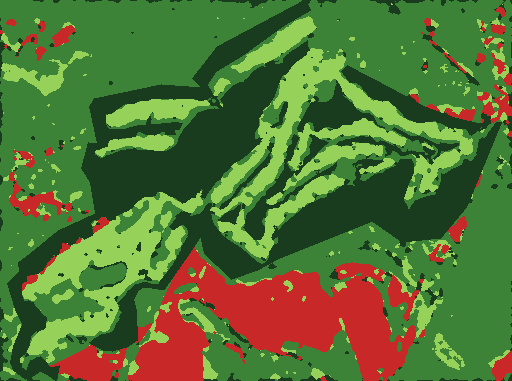
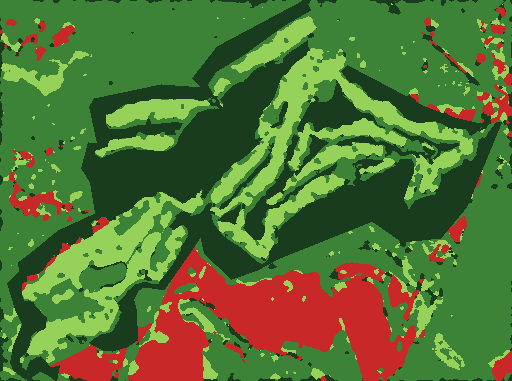
Union OSM bunkers into surface mask as rough
Bunkers outside the playing-corridor envelope were classified OB by
the aerial mask (non-turf + outside envelope -> OB), so sand rendered
under the red OOB overlay. surfaceAt() already plays them as sand
(bunker poly checked first), so this was a visual-only mismatch.

Paint OSM bunker polygons as ROUGH in build_surface_mask after the
woods union, mirroring how woods are unioned as a strong prior.
Re-baked butter-brook-golf-club mask: 76/76 bunkers now ROUGH/FW.

diff --git a/tools/fetch_course.py b/tools/fetch_course.py
@@ -264,7 +264,7 @@ def _classify_px(r, g, b, edge, fw_cut, inside):
 
 
 def build_surface_mask(img_path, aerial, world, woods_world, corridors, out_path,
-                       boundary=None):
+                       boundary=None, bunker_world=None):
     """Classify the baked aerial into a coarse fairway/rough/woods/OOB raster.
     Returns {file,w,h,toWorld:[...]} (mask px -> world affine) or None to skip.
 
@@ -348,6 +348,18 @@ def build_surface_mask(img_path, aerial, world, woods_world, corridors, out_path
                         id_ * p["x"] + ie * p["y"] + if_) for p in poly]
                 if len(pts) >= 3:
                     draw.polygon(pts, fill=MASK_WOODS)
+
+        # union the OSM bunkers in as ROUGH so sand never classifies OB (the
+        # game samples the real bunker polygon first; this only stops the mask
+        # painting a fairway/greenside bunker red just because it's not turf).
+        if bunker_world and w2p is not None:
+            ia, ib, ic, id_, ie, if_ = w2p
+            draw = ImageDraw.Draw(lab)
+            for poly in bunker_world:
+                pts = [(ia * p["x"] + ib * p["y"] + ic,
+                        id_ * p["x"] + ie * p["y"] + if_) for p in poly]
+                if len(pts) >= 3:
+                    draw.polygon(pts, fill=MASK_ROUGH)
 
         lab.putpalette(MASK_PALETTE)
         lab.save(out_path)

diff --git a/tools/fetch_course_global.py b/tools/fetch_course_global.py
@@ -499,7 +499,8 @@ def main():
                 mask = fc.build_surface_mask(os.path.join(out_dir, rel), aerial, world,
                                              surfaces["woods"], corridors,
                                              os.path.join(out_dir, mrel),
-                                             boundary=boundary_world)
+                                             boundary=boundary_world,
+                                             bunker_world=surfaces["bunker"])
                 if mask:
                     mask["file"] = mrel
                     course["surfaceMask"] = mask